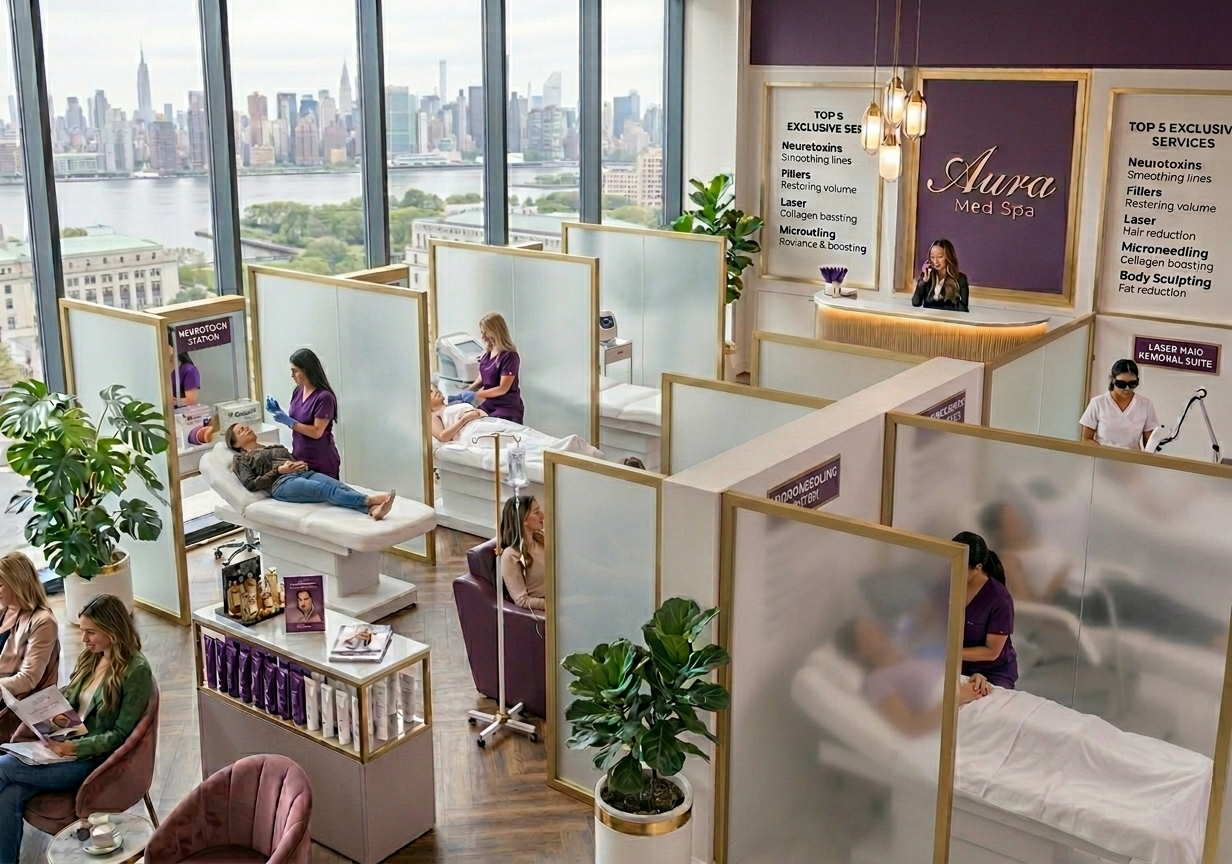
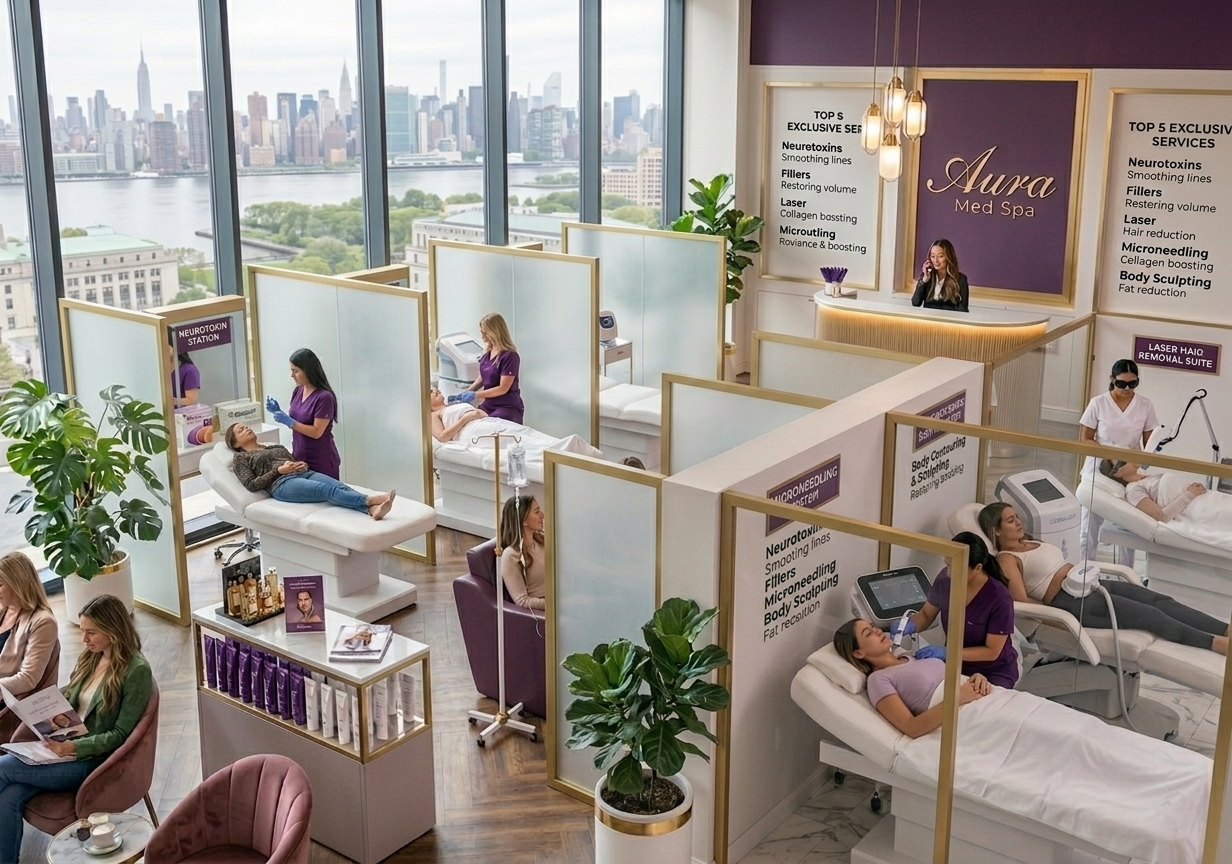
8e3ba0df-1b94-47f0-ac25-adcff2087de8

diff --git a/src/app/page.tsx b/src/app/page.tsx
@@ -2,7 +2,6 @@
 
 import { useState, useEffect, useRef, useCallback } from 'react'
 import Image from 'next/image'
-import Link from 'next/link'
 import { Button } from '@/components/ui/button'
 import { Card, CardContent, CardDescription, CardFooter, CardHeader, CardTitle } from '@/components/ui/card'
 import { Badge } from '@/components/ui/badge'
@@ -1101,45 +1100,7 @@ function TestimonialsSection() {
 function IndustriesSection() {
   const industries = [
     {
-      name: 'Med Spas',
-      href: '/med-spa',
-      image: '/industry-med-spa-v2.png',
-      description:
-        'The US Med Spa market is projected to reach $26.2 billion in 2026, yet clinics are hemorrhaging revenue through missed calls, slow lead response, and weekend gaps. Up to 39% of Med Spa calls go unanswered, and 85% of those callers will never call back. MassaPro plugs these "silent revenue leaks" by deploying a sales-oriented AI secretary that captures every lead in under 10 seconds, books high-value treatments 24/7, and converts weekend traffic that your competitors lose to voicemail.',
-      advantages: [
-        'Recover $30,000+/month in missed call revenue — 85% of unanswered callers never return',
-        'Engage leads within 10 seconds — conversion drops 80% after 5 minutes of silence',
-        'Capture 68% weekend conversion rates while your staff is off — your competitors go to voicemail',
-        'Reduce no-shows from 20% to under 5% with deposit handling and intelligent re-scheduling',
-      ],
-      services: ['Instant Lead Qualification & Booking', 'Deposit & Payment Handling', 'No-Show Recovery & Slot Refilling', 'Weekend & After-Hours Call Capture', 'CRM Sync (Zenoti, Pabau, and more)', 'Upsell Add-On Treatments Automatically'],
-      reviews: [
-        {
-          quote: 'We were missing 8–10 calls a day during peak hours. At an average booking value of $350, that was over $30,000 a month in lost revenue. MassaPro now answers every single call and books them on the spot — our revenue jumped 32% in the first month.',
-          name: 'Dr. Vanessa Carter',
-          role: 'Founder, Radiance Med Spa',
-          photo: '/review-medspa-1.png',
-          stars: 5,
-        },
-        {
-          quote: 'Our weekend callers were going straight to voicemail while our competitors\' phones were silent too. Now MassaPro captures that 68% weekend conversion rate, and we\'re booking 40+ extra appointments every weekend without a single staff member on the clock.',
-          name: 'Tanya Brooks',
-          role: 'Operations Director, Glow Aesthetics Clinic',
-          photo: '/review-medspa-2.png',
-          stars: 5,
-        },
-        {
-          quote: 'The no-show problem was killing us — 18% of slots wasted every week. MassaPro\'s deposit handling and smart re-scheduling cut that to under 4%. It doesn\'t just answer the phone; it sells. It upsells filler add-ons and secures deposits like a trained closer.',
-          name: 'Dr. Markus Lindgren',
-          role: 'Medical Director, Revive Wellness & Aesthetics',
-          photo: '/review-medspa-3.png',
-          stars: 5,
-        },
-      ],
-    },
-    {
       name: 'Hair Salons',
-      href: '/hair-salon',
       image: '/industry-hair-salon-v2.png',
       description:
         'MassaPro transforms hair salons by handling the full appointment lifecycle — from booking and confirmation to reminders and follow-ups. Your AI receptionist answers calls, responds to texts, and manages your calendar so your stylists can focus on what they do best: creating beautiful hair.',
@@ -1176,8 +1137,7 @@ function IndustriesSection() {
     },
     {
       name: 'Nail Studios',
-      href: '/nail-studio',
-      image: '/industry-nail-studio-v2.png',
+      image: '/industry-nail-studio.png',
       description:
         'Nail studios thrive on repeat bookings and walk-in traffic. MassaPro captures every call and message, books appointments around your technicians\' availability, and keeps your chairs full. From gel manicures to intricate nail art consultations, your AI handles it all with a personal touch.',
       advantages: [
@@ -1213,7 +1173,6 @@ function IndustriesSection() {
     },
     {
       name: 'Beauty Shops',
-      href: '/beauty-shop',
       image: '/industry-beauty-shop.png',
       description:
         'Beauty shops and spas juggle multiple services, varied appointment durations, and a clientele that expects premium communication. MassaPro\'s AI Concierge handles complex booking scenarios, package deals, and VIP client management — delivering the white-glove experience your brand promises.',
@@ -1250,7 +1209,6 @@ function IndustriesSection() {
     },
     {
       name: 'Veterinary Clinics',
-      href: '/vet-clinic',
       image: '/industry-vet-clinic.png',
       description:
         'Veterinary clinics face unique challenges — emergency triage, vaccination schedules, and worried pet owners who need reassurance at all hours. MassaPro\'s AI handles emergency call routing, appointment scheduling, and prescription refill requests, ensuring no pet owner is left waiting when it matters most.',
@@ -1321,6 +1279,42 @@ function IndustriesSection() {
         },
       ],
     },
+    {
+      name: 'Med Spas',
+      image: '/industry-med-spa-v2.png',
+      description:
+        'The US Med Spa market is projected to reach $26.2 billion in 2026, yet clinics are hemorrhaging revenue through missed calls, slow lead response, and weekend gaps. Up to 39% of Med Spa calls go unanswered, and 85% of those callers will never call back. MassaPro plugs these "silent revenue leaks" by deploying a sales-oriented AI secretary that captures every lead in under 10 seconds, books high-value treatments 24/7, and converts weekend traffic that your competitors lose to voicemail.',
+      advantages: [
+        'Recover $30,000+/month in missed call revenue — 85% of unanswered callers never return',
+        'Engage leads within 10 seconds — conversion drops 80% after 5 minutes of silence',
+        'Capture 68% weekend conversion rates while your staff is off — your competitors go to voicemail',
+        'Reduce no-shows from 20% to under 5% with deposit handling and intelligent re-scheduling',
+      ],
+      services: ['Instant Lead Qualification & Booking', 'Deposit & Payment Handling', 'No-Show Recovery & Slot Refilling', 'Weekend & After-Hours Call Capture', 'CRM Sync (Zenoti, Pabau, and more)', 'Upsell Add-On Treatments Automatically'],
+      reviews: [
+        {
+          quote: 'We were missing 8–10 calls a day during peak hours. At an average booking value of $350, that was over $30,000 a month in lost revenue. MassaPro now answers every single call and books them on the spot — our revenue jumped 32% in the first month.',
+          name: 'Dr. Vanessa Carter',
+          role: 'Founder, Radiance Med Spa',
+          photo: '/review-medspa-1.png',
+          stars: 5,
+        },
+        {
+          quote: 'Our weekend callers were going straight to voicemail while our competitors\' phones were silent too. Now MassaPro captures that 68% weekend conversion rate, and we\'re booking 40+ extra appointments every weekend without a single staff member on the clock.',
+          name: 'Tanya Brooks',
+          role: 'Operations Director, Glow Aesthetics Clinic',
+          photo: '/review-medspa-2.png',
+          stars: 5,
+        },
+        {
+          quote: 'The no-show problem was killing us — 18% of slots wasted every week. MassaPro\'s deposit handling and smart re-scheduling cut that to under 4%. It doesn\'t just answer the phone; it sells. It upsells filler add-ons and secures deposits like a trained closer.',
+          name: 'Dr. Markus Lindgren',
+          role: 'Medical Director, Revive Wellness & Aesthetics',
+          photo: '/review-medspa-3.png',
+          stars: 5,
+        },
+      ],
+    },
   ]
 
   return (
@@ -1377,37 +1371,16 @@ function IndustriesSection() {
                   </div>
 
                   <div className={idx % 2 === 1 ? 'lg:order-1' : ''}>
-                    {industry.href ? (
-                      <Link href={industry.href} className="block group">
-                        <div className="relative rounded-3xl overflow-hidden shadow-xl shadow-purple-100/50 border border-purple-50 group-hover:shadow-2xl group-hover:shadow-purple-200/50 transition-all duration-300">
-                          <Image
-                            src={industry.image}
-                            alt={industry.name}
-                            width={1344}
-                            height={768}
-                            className="w-full h-auto object-cover group-hover:scale-105 transition-transform duration-500"
-                          />
-                          <div className="absolute inset-0 bg-gradient-to-t from-purple-900/20 to-transparent" />
-                          <div className="absolute bottom-4 right-4 bg-white/90 backdrop-blur-sm rounded-full px-4 py-2 flex items-center gap-2 text-purple-700 font-semibold text-sm group-hover:bg-purple-700 group-hover:text-white transition-all duration-300">
-                            Learn More <ArrowRight className="w-4 h-4" />
-                          </div>
-                        </div>
-                      </Link>
-                    ) : (
-                      <div className="relative rounded-3xl overflow-hidden shadow-xl shadow-purple-100/50 border border-purple-50">
-                        <Image
-                          src={industry.image}
-                          alt={industry.name}
-                          width={1344}
-                          height={768}
-                          className="w-full h-auto object-cover"
-                        />
-                        <div className="absolute inset-0 bg-gradient-to-t from-purple-900/10 to-transparent" />
-                        <div className="absolute bottom-4 right-4 bg-gray-400/90 backdrop-blur-sm rounded-full px-4 py-2 flex items-center gap-2 text-white font-semibold text-sm">
-                          Coming Soon
-                        </div>
-                      </div>
-                    )}
+                    <div className="relative rounded-3xl overflow-hidden shadow-xl shadow-purple-100/50 border border-purple-50">
+                      <Image
+                        src={industry.image}
+                        alt={industry.name}
+                        width={1344}
+                        height={768}
+                        className="w-full h-auto object-cover"
+                      />
+                      <div className="absolute inset-0 bg-gradient-to-t from-purple-900/10 to-transparent" />
+                    </div>
                   </div>
                 </div>
 
@@ -1674,12 +1647,11 @@ function Footer() {
           <div>
             <h4 className="font-semibold text-white mb-4">Industries</h4>
             <ul className="space-y-2 text-sm">
-              <li><a href="/med-spa" className="hover:text-purple-400 transition-colors">Med Spas</a></li>
-              <li><a href="/hair-salon" className="hover:text-purple-400 transition-colors">Hair Salons</a></li>
-              <li><a href="/nail-studio" className="hover:text-purple-400 transition-colors">Nail Studios</a></li>
-              <li><a href="/beauty-shop" className="hover:text-purple-400 transition-colors">Beauty Shops</a></li>
-              <li><a href="/vet-clinic" className="hover:text-purple-400 transition-colors">Veterinary Clinics</a></li>
-              <li><span className="text-gray-500">Wellness Centers</span></li>
+              <li>Hair Salons</li>
+              <li>Nail Studios</li>
+              <li>Beauty Shops</li>
+              <li>Veterinary Clinics</li>
+              <li>Wellness Centers</li>
             </ul>
           </div>
 

diff --git a/src/components/LeadForm.tsx b/src/components/LeadForm.tsx
@@ -122,10 +122,9 @@ interface LeadFormProps {
   onOpenChange: (open: boolean) => void
   prefillService?: string
   prefillPlan?: string
-  prefillIndustry?: string
 }
 
-export function LeadForm({ open, onOpenChange, prefillService, prefillPlan, prefillIndustry }: LeadFormProps) {
+export function LeadForm({ open, onOpenChange, prefillService, prefillPlan }: LeadFormProps) {
   const [formData, setFormData] = useState({
     firstName: '',
     lastName: '',
@@ -159,7 +158,7 @@ export function LeadForm({ open, onOpenChange, prefillService, prefillPlan, pref
     }
   }, [])
 
-  // Prefill service/plan/industry from button click
+  // Prefill service/plan from button click
   useEffect(() => {
     if (prefillService) {
       setFormData((prev) => ({ ...prev, serviceType: prefillService }))
@@ -167,10 +166,7 @@ export function LeadForm({ open, onOpenChange, prefillService, prefillPlan, pref
     if (prefillPlan) {
       setFormData((prev) => ({ ...prev, planType: prefillPlan }))
     }
-    if (prefillIndustry) {
-      setFormData((prev) => ({ ...prev, industry: prefillIndustry }))
-    }
-  }, [prefillService, prefillPlan, prefillIndustry])
+  }, [prefillService, prefillPlan])
 
   const handleChange = (field: string, value: string) => {
     setFormData((prev) => ({ ...prev, [field]: value }))

diff --git a/DEPLOY.md b/DEPLOY.md
@@ -1,0 +1,128 @@
+# MassaPro — Deploy to Your Real Domain (massapro.com)
+
+## Overview
+
+Your Next.js app will be deployed to **Vercel** (free) and accessible at:
+- **`https://receptionist.massapro.com`** — Main receptionist landing page
+- **`https://receptionist.massapro.com/med-spa`** — Med Spa subpage
+
+Your main Framer site stays at **`https://massapro.com`** untouched.
+
+---
+
+## STEP 1: Push Code to GitHub (5 min)
+
+1. Go to [github.com/new](https://github.com/new) and create a new repository:
+   - Name: `massapro-receptionist`
+   - Set to **Private** (recommended)
+   - Do NOT initialize with README
+
+2. On your computer, open a terminal and run:
+   ```bash
+   cd /path/to/your/project
+   git remote add origin https://github.com/YOUR_USERNAME/massapro-receptionist.git
+   git branch -M main
+   git push -u origin main
+   ```
+
+---
+
+## STEP 2: Deploy to Vercel (5 min)
+
+1. Go to [vercel.com/signup](https://vercel.com/signup) and sign up with your **GitHub account**
+
+2. Click **"Add New Project"**
+
+3. Select the `massapro-receptionist` repository from the list
+
+4. Configure the project:
+   - **Framework Preset**: Next.js (auto-detected)
+   - **Root Directory**: `./` (default)
+   - **Build Command**: `next build` (default)
+   - **Output Directory**: Leave default
+   - Click **"Deploy"**
+
+5. Wait ~2 minutes for the build to complete
+
+6. Vercel gives you a temporary URL like `massapro-receptionist.vercel.app` — your site is live!
+
+---
+
+## STEP 3: Add Your Custom Domain (3 min)
+
+1. In your Vercel project dashboard, go to **Settings → Domains**
+
+2. Type `receptionist.massapro.com` and click **Add**
+
+3. Vercel will show you DNS records to add. It will look like this:
+   ```
+   Type:  CNAME
+   Name:  receptionist
+   Value: cname.vercel-dns.com
+   ```
+
+---
+
+## STEP 4: Configure DNS in GoDaddy (3 min)
+
+1. Log into [GoDaddy](https://dcc.godaddy.com/)
+
+2. Go to **My Products → DNS → Manage DNS** for massapro.com
+
+3. Click **"Add New Record"**:
+   - **Type**: CNAME
+   - **Name**: `receptionist`
+   - **Value**: `cname.vercel-dns.com`
+   - **TTL**: 600 (or default)
+
+4. Click **Save**
+
+5. Wait 5-30 minutes for DNS propagation
+
+6. Visit `https://receptionist.massapro.com` — your site is live!
+
+---
+
+## STEP 5: Link from Your Framer Site
+
+In your Framer site at massapro.com, add a link or button that says:
+- **"AI Receptionist"** → links to `https://receptionist.massapro.com`
+- **"Med Spa Solutions"** → links to `https://receptionist.massapro.com/med-spa`
+
+---
+
+## Future Updates — How It Works
+
+Every time you push changes to the GitHub repository, Vercel **automatically rebuilds and deploys** your site. No manual steps needed!
+
+### Option A: Make changes locally and push
+```bash
+git add .
+git commit -m "Update pricing section"
+git push
+# Vercel auto-deploys in ~1-2 minutes
+```
+
+### Option B: Make changes in this AI environment
+After making changes here, you can download the project files and push them to GitHub. Or use the Vercel CLI:
+```bash
+npx vercel --prod
+```
+
+---
+
+## URL Structure Summary
+
+| URL | Content |
+|-----|---------|
+| `massapro.com` | Your Framer main site (unchanged) |
+| `receptionist.massapro.com` | AI Receptionist landing page |
+| `receptionist.massapro.com/med-spa` | Med Spa dedicated page |
+
+---
+
+## Cost: $0
+
+- Vercel Hobby plan: **Free** (100GB bandwidth, unlimited deployments)
+- GoDaddy DNS: Already included with your domain
+- No additional hosting costs